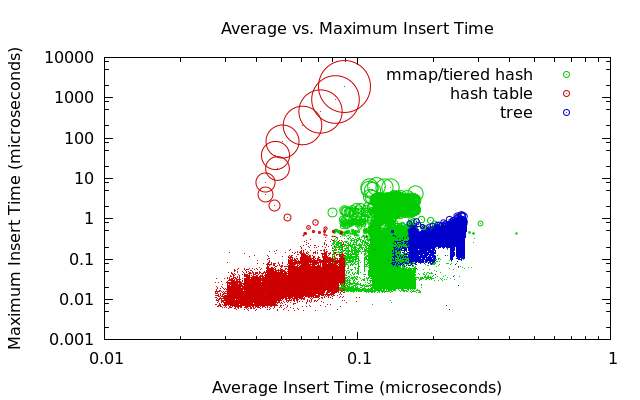
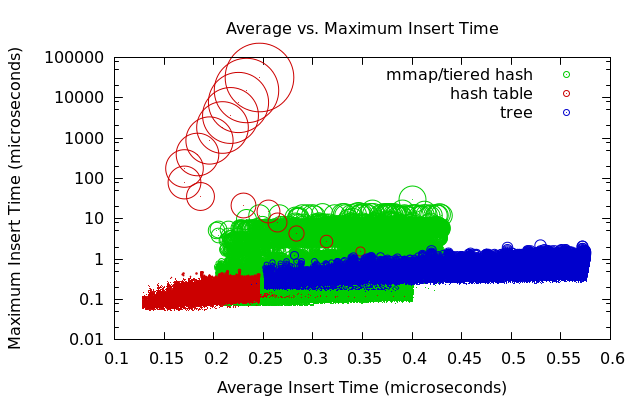
use median for robustness

diff --git a/src/benchmark/insert-maxtime.cc b/src/benchmark/insert-maxtime.cc
@@ -64,44 +64,53 @@ size_t flatsub(const size_t& x, const size_t& y) {
 template<typename T>
 void test(const unsigned size, const unsigned samples) {
   unsigned i = 0;
-  high_priority zz;
-  std::vector<T> p(samples);
-  std::vector<dummy> r(samples);
+  //high_priority zz;
+  const size_t multiplier = 1 << 3;
+  std::vector<T> p(samples * multiplier);
+  std::vector<dummy> r(samples * multiplier);
   //std::vector<size_t> l1(samples,0), l2(samples,0);
   //std::vector<size_t> s1(samples,0), s2(samples,0);
-  size_t l1(0), l3(0), s1(0), s3(0), t1(0), t3(0);
+  size_t total_sample = 0, total_control = 0, max_sample = 0, max_control = 0;
   for (unsigned j = 0; j < size; ++j) { 
     const auto x = some::random();
-    __sync_synchronize();
-    const size_t begin = get_time();
-    __sync_synchronize();
+    size_t min_sample = ~0, min_control = ~0;
+    size_t sample[samples], control[samples];
     for (unsigned k = 0; k < samples; ++k) { 
-      p[k].insert(x);
-    }
-    __sync_synchronize();
-    const size_t mid = get_time();
-    __sync_synchronize();
-    for (unsigned k = 0; k < samples; ++k) { 
-      r[k].insert(x);
-    }
-    __sync_synchronize();
-    const size_t last = get_time();
-    __sync_synchronize();
+      __sync_synchronize();
+      const size_t begin = get_time();
+      __sync_synchronize();
+      for (size_t i = 0; i < multiplier; ++i) {
+        p[k*multiplier+i].insert(x);
+      }
+      __sync_synchronize();
+      const size_t mid = get_time();
+      __sync_synchronize();
+      for (size_t i = 0; i < multiplier; ++i) {
+        r[k*multiplier+i].insert(x); 
+      }
+      __sync_synchronize();
+      const size_t last = get_time();
+      __sync_synchronize();
 
-    s3 = last - mid;
-    l3 = std::max(l3, s3);
-    t3 = t3 + s3;
-
-    s1 = flatsub(mid - begin, s3);
+      min_control = std::min(min_control, last-mid);
+      min_sample = std::min(min_sample, mid-begin);
+      sample[k] = mid-begin;
+      control[k] = last-mid;      
+    }
     
-    l1 = std::max(l1, s1);
+    const size_t med_control = median(control, samples);
+    const size_t med_sample = median(sample, samples);
 
-    t1 = flatsub(t1 + mid - begin, s3);
+    total_sample += med_sample;
+    total_control += med_control;
+    max_sample = std::max(max_sample, med_sample);
+    max_control = std::max(max_control, med_control);
+
  
     cout << static_cast<double>(j)/1000.0 << '\t'
-         << static_cast<double>(l1)/(1000.0 * static_cast<double>(samples)) << '\t'
-         << static_cast<double>(s1)/(1000.0 * static_cast<double>(samples)) << '\t'
-         << static_cast<double>(t1)/(1000.0 * static_cast<double>(samples * (j+1))) << endl;
+         << static_cast<double>(max_sample)/(static_cast<double>(multiplier) * 1000.0) << '\t'
+         << static_cast<double>(med_sample)/(static_cast<double>(multiplier) * 1000.0) << '\t'
+         << static_cast<double>(total_sample)/(1000.0 * static_cast<double>(multiplier * (j+1))) << endl;
   }
 }
 
@@ -172,8 +181,8 @@ void print_test(std::vector<std::tuple<unsigned, double, double> > x) {
 
 int main(int argc, char ** argv) {
   srand(0);
-  unsigned size = 100000;//00;
-  unsigned samples = 1 << 5;
+  unsigned size = 1000000;//00;
+  unsigned samples = 1 << 3;
   if (4 == argc) {
     size = read<unsigned>(argv[2]);
     samples = read<unsigned>(argv[3]);

diff --git a/src/lazy-linear.cc b/src/lazy-linear.cc
@@ -44,7 +44,8 @@ struct lazy_map {
   
   // find a key in a nonempty table
   size_t locate(const Key& k) {
-    assert (nullptr != data); assert (capacity > 0); assert (0 == (capacity & capacity-1));
+    assert (nullptr != data.data); 
+    assert (capacity > 0); assert (0 == (capacity & capacity-1));
     const auto cap_mask = capacity-1;
     auto h = hashf(k) & (cap_mask);
     while (true) {

diff --git a/src/util.cc b/src/util.cc
@@ -27,7 +27,7 @@ high_priority::high_priority() : old_policy(sched_getscheduler(0)), old_sp() {
   CPU_SET(0, &aff);
   if (false && (-1 == sched_setaffinity(0, sizeof(cpu_set_t), &aff))) {
     std::cerr << "can't set affinity" << std::endl;
-    throw "can't set affinity";
+    //throw "can't set affinity";
     //exit(1);
   }
   
